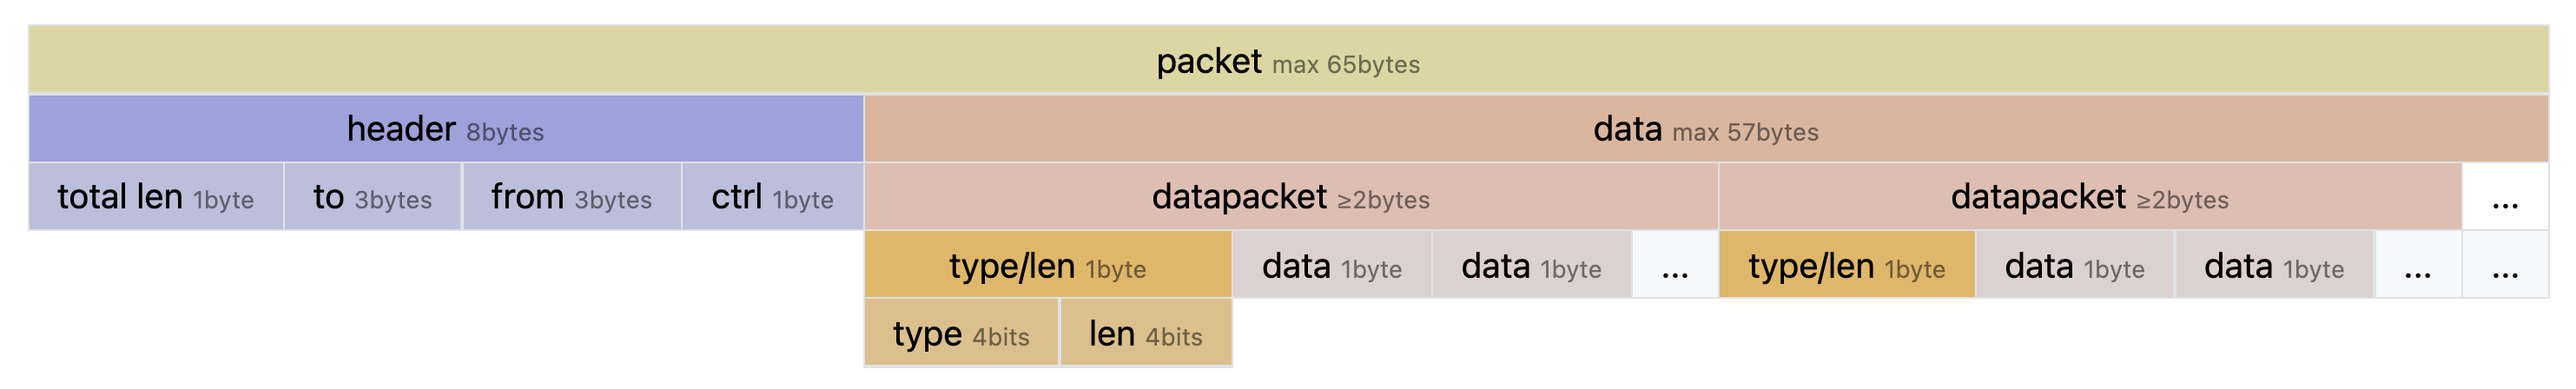
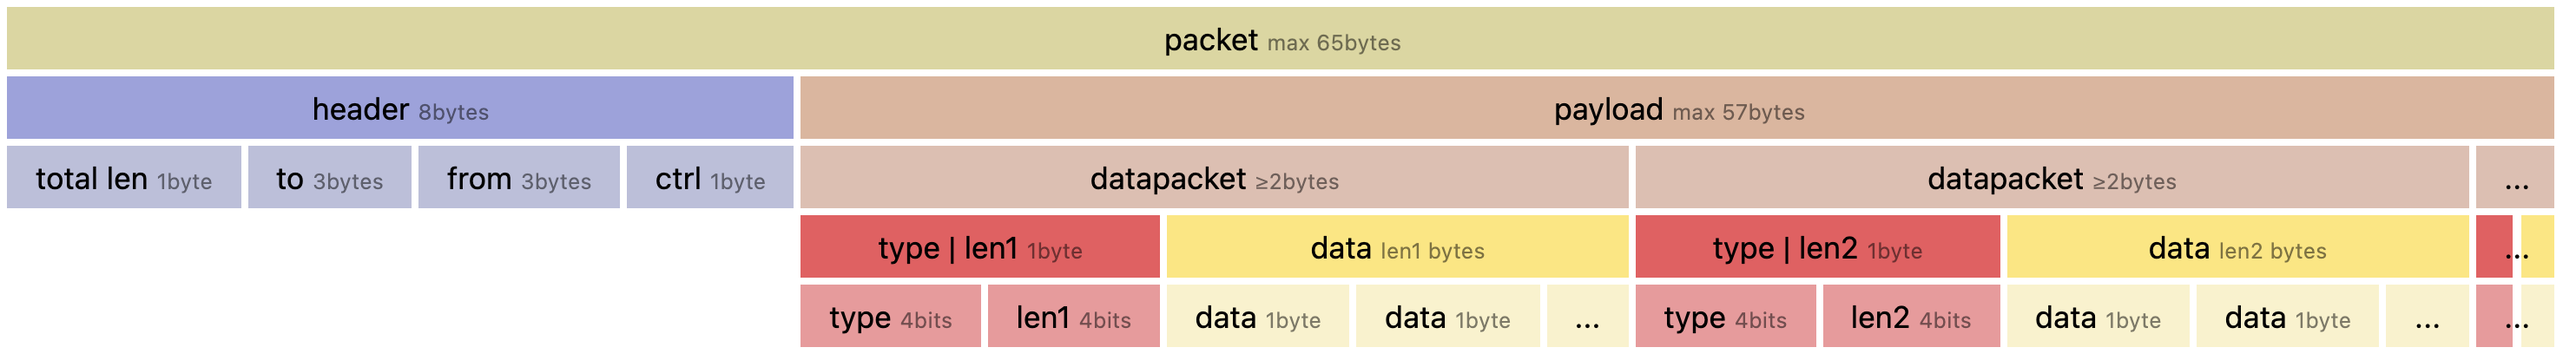
enhanced doc

diff --git a/examples/rfm69/PACKET.md b/examples/rfm69/PACKET.md
@@ -1,34 +1,68 @@
-<table style="text-align: center;width:100%;">
-<tr style="background: #dbd69d"><td colspan=14>packet <span style="font-size: .7rem; opacity: .5;">max 65bytes</span></td></tr>
-<tr>
-  <td style="background: #9da2dd" colspan=4>header <span style="font-size: .7rem; opacity: .5;">8bytes</span></td>
-  <td style="background: #dbb69d" colspan=10>data <span style="font-size: .7rem; opacity: .5;">max 57bytes</span></td>
-</tr>
-<tr>
-  <td style="background: #bcbfdb" >total len <span style="font-size: .7rem; opacity: .5;">1byte</span></td>
-  <td style="background: #bcbfdb" >to <span style="font-size: .7rem; opacity: .5;">3bytes</span></td>
-  <td style="background: #bcbfdb" >from <span style="font-size: .7rem; opacity: .5;">3bytes</span></td>
-  <td style="background: #bcbfdb" >ctrl <span style="font-size: .7rem; opacity: .5;">1byte</span></td>
+<style>
+#rfm69 { text-align: center; width:100%; border-collapse: separate; border-spacing: .2rem; white-space: nowrap; font-size: .875rem; }
+#rfm69 td { border: 0;  }
+#rfm69 tr.overall { background: #dbd69d }
+#rfm69 span { font-size: .625rem; opacity: .5; }
+#rfm69 tr.packet td:nth-child(1) { background: #9da2dd; }
+#rfm69 tr.packet td:nth-child(2) { background: #dbb69d; }
+#rfm69 td.header { background: #bcbfdb; }
+#rfm69 td.payload { background: #ddbfb1; }
+#rfm69 td.hidden, #rfm69 tr.hidden { border: 0; background: #fff; }
+#rfm69 td.empty { background: #f7f7f7; }
+#rfm69 td.datapacket:nth-child(2), #rfm69 td.datapacket:nth-child(4) { background: #e06060; }
+#rfm69 td.datapacket { background: #fbe679; }
+#rfm69 td.datapacket.empty { background: linear-gradient(to right, #e06060 0%, #e06060 45%, #fff 45%, #fff 55%, #fbe679 55%); }
+#rfm69 td.typelen { background: #e79b9b; }
+#rfm69 td.data { background: #f9f2cb; }
+#rfm69 td.data.empty { background: linear-gradient(to right, #e79b9b 0%, #e79b9b 45%, #fff 45%, #fff 55%, #f9f2cb 55%); }
+</style>
 
-  <td style="background: #ddbfb1" colspan=5>datapacket <span style="font-size: .7rem; opacity: .5;">≥2bytes</span></td>
-  <td style="background: #ddbfb1" colspan=4>datapacket <span style="font-size: .7rem; opacity: .5;">≥2bytes</span></td>
-  <td style="background: #fff">...</td>
+<table id="rfm69" cellpadding="10px">
+<tr class="overall">
+  <td colspan=15>packet <span>max 65bytes</span></td>
+</tr>
+<tr class="packet">
+  <td colspan=4>header <span>8bytes</span></td>
+  <td colspan=11>payload <span>max 57bytes</span></td>
+</tr>
+<tr class=>
+  <td class="header">total len <span>1byte</span></td>
+  <td class="header">to <span>3bytes</span></td>
+  <td class="header">from <span>3bytes</span></td>
+  <td class="header">ctrl <span>1byte</span></td>
+
+  <td class="payload" colspan=5>datapacket <span>≥2bytes</span></td>
+  <td class="payload" colspan=5>datapacket <span>≥2bytes</span></td>
+
+  <td class="payload">...</td>
 </tr>
 <tr>
-  <td style="border: 0; background: #fff;" colspan=4></td>
-  <td colspan=2 style="background: #e0b760">type/len <span style="font-size: .7rem; opacity: .5;">1byte</span></td>
-  <td style="background: #dbd1ce">data <span style="font-size: .7rem; opacity: .5;">1byte</span></td>
-  <td style="background: #dbd1ce">data <span style="font-size: .7rem; opacity: .5;">1byte</span></td>
-  <td>...</td>
+  <td class="hidden" colspan=4></td>
 
-  <td style="background: #e0b760">type/len <span style="font-size: .7rem; opacity: .5;">1byte</span></td>
-  <td style="background: #dbd1ce">data <span style="font-size: .7rem; opacity: .5;">1byte</span></td>
-  <td style="background: #dbd1ce">data <span style="font-size: .7rem; opacity: .5;">1byte</span></td>
-  <td>...</td>
-  <td>...</td>
+  <td class="datapacket" colspan=2>type | len1 <span>1byte</span></td>
+  <td class="datapacket" colspan=3>data <span>len1 bytes</span></td>
+
+  <td class="datapacket" colspan=2>type | len2 <span>1byte</span></td>
+  <td class="datapacket" colspan=3>data <span>len2 bytes</span></td>
+  <td class="datapacket empty">...</td>
 </tr>
-<tr style="border: 0;">
-  <td style="border: 0; background: #fff;" colspan=4></td>
-  <td style="background: #dbbf87">type <span style="font-size: .7rem; opacity: .5;">4bits</span>
-  <td style="background: #dbbf87">len <span style="font-size: .7rem; opacity: .5;">4bits</span>
+<tr class="hidden">
+  <td class="hidden" colspan=4></td>
+
+  <td class="typelen">type <span>4bits</span>
+  <td class="typelen">len1 <span>4bits</span>
+
+  <td class="data">data <span>1byte</span></td>
+  <td class="data">data <span>1byte</span></td>
+  <td class="data">...</td>
+
+  <td class="typelen">type <span>4bits</span>
+  <td class="typelen">len2 <span>4bits</span>
+
+  <td class="data">data <span>1byte</span></td>
+  <td class="data">data <span>1byte</span></td>
+  <td class="data">...</td>
+  <td class="data empty">...</td>
+</tr>
+
 </table>

diff --git a/examples/rfm69/README.md b/examples/rfm69/README.md
@@ -12,11 +12,14 @@ A node can therefore send and receive 16 different types of datapackets each, wh
 | ---- | -----    | ------ | -----------                                          |
 | 0x00 | debug    | 1      | used to debug, eg as counter                         |
 | 0x01 | vcc      | 2      | voltage of power source                              |
+| 0x02 | rssi     | 1      | last received RSSI as uint8_t                        |
 | ...  |          |        |                                                      |
 | 0x08 | humidtiy | 4      | returns humidity (2 bytes) and temperature (2 bytes) |
 
 **upload types (gateway -> node, ie returned with ack)** 
-| type | name      | length | description                  |
-| -    | -         | -      | -                            |
-| 0x00 | debug     | 1      | used to debug, eg as counter |
-| 0x01 | timestamp | 4      | current timestamp            |
+| type | name      | length | description                   |
+| -    | -         | -      | -                             |
+| 0x00 | debug     | 1      | used to debug, eg as counter  |
+| 0x01 | timestamp | 4      | current timestamp             |
+| 0x02 | rssi      | 1      | last received RSSI as uint8_t |
+| 0x03 | trxpwr    | 1      | increment/decrement power     |
